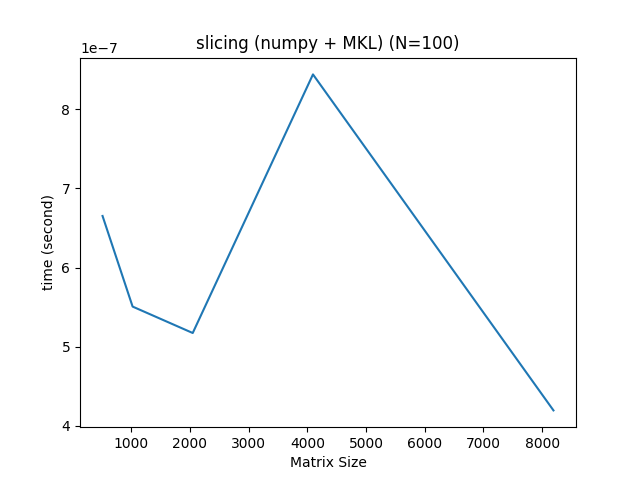
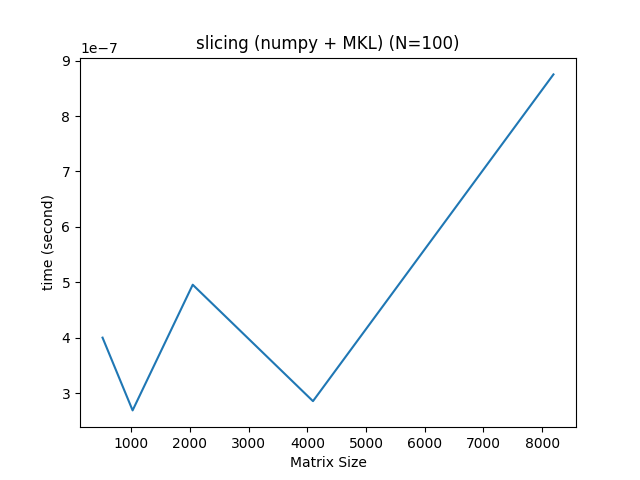
added numpy to float32

diff --git a/benchmark/numpy_benchmark.py b/benchmark/numpy_benchmark.py
@@ -40,7 +40,7 @@ def matmul_2D(K=1000):
     global matmul_try_n
     print(f"[{matmul_try_n}/{len(MATMUL_SIZE)}] Testing on {K}*{K} Matrix for {N} times...")
     matmul_try_n += 1
-    x = np.random.randn(K, K)
+    x = np.random.randn(K, K).astype('float32')
     def run_test():
         t1 = time()
         np.matmul(x, x)
@@ -52,8 +52,8 @@ def broadcasting_2D(K):
     global broadcasting_try_n
     print(f"[{broadcasting_try_n}/{len(BROADCASTING_SHAPE)}] Testing on Matrix.size()[1]={K[0][1]} for {N} times...")
     broadcasting_try_n += 1
-    a = np.random.randn(K[0][0], K[0][1], K[0][2])
-    b = np.random.randn(K[1][0], K[1][1], K[1][2])
+    a = np.random.randn(K[0][0], K[0][1], K[0][2]).astype('float32')
+    b = np.random.randn(K[1][0], K[1][1], K[1][2]).astype('float32')
 
     def run_test():
         t1 = time()
@@ -66,7 +66,7 @@ def slicing_bench(K):
     global slicing_try_n
     print(f"[{slicing_try_n}/{len(SLICE_SIZE)}] Testing on {K}*{K} Matrix for {N} times...")
     slicing_try_n += 1
-    a = np.random.randn(K, K)
+    a = np.random.randn(K, K).astype('float32')
 
     def run_test():
         t1 = time()
